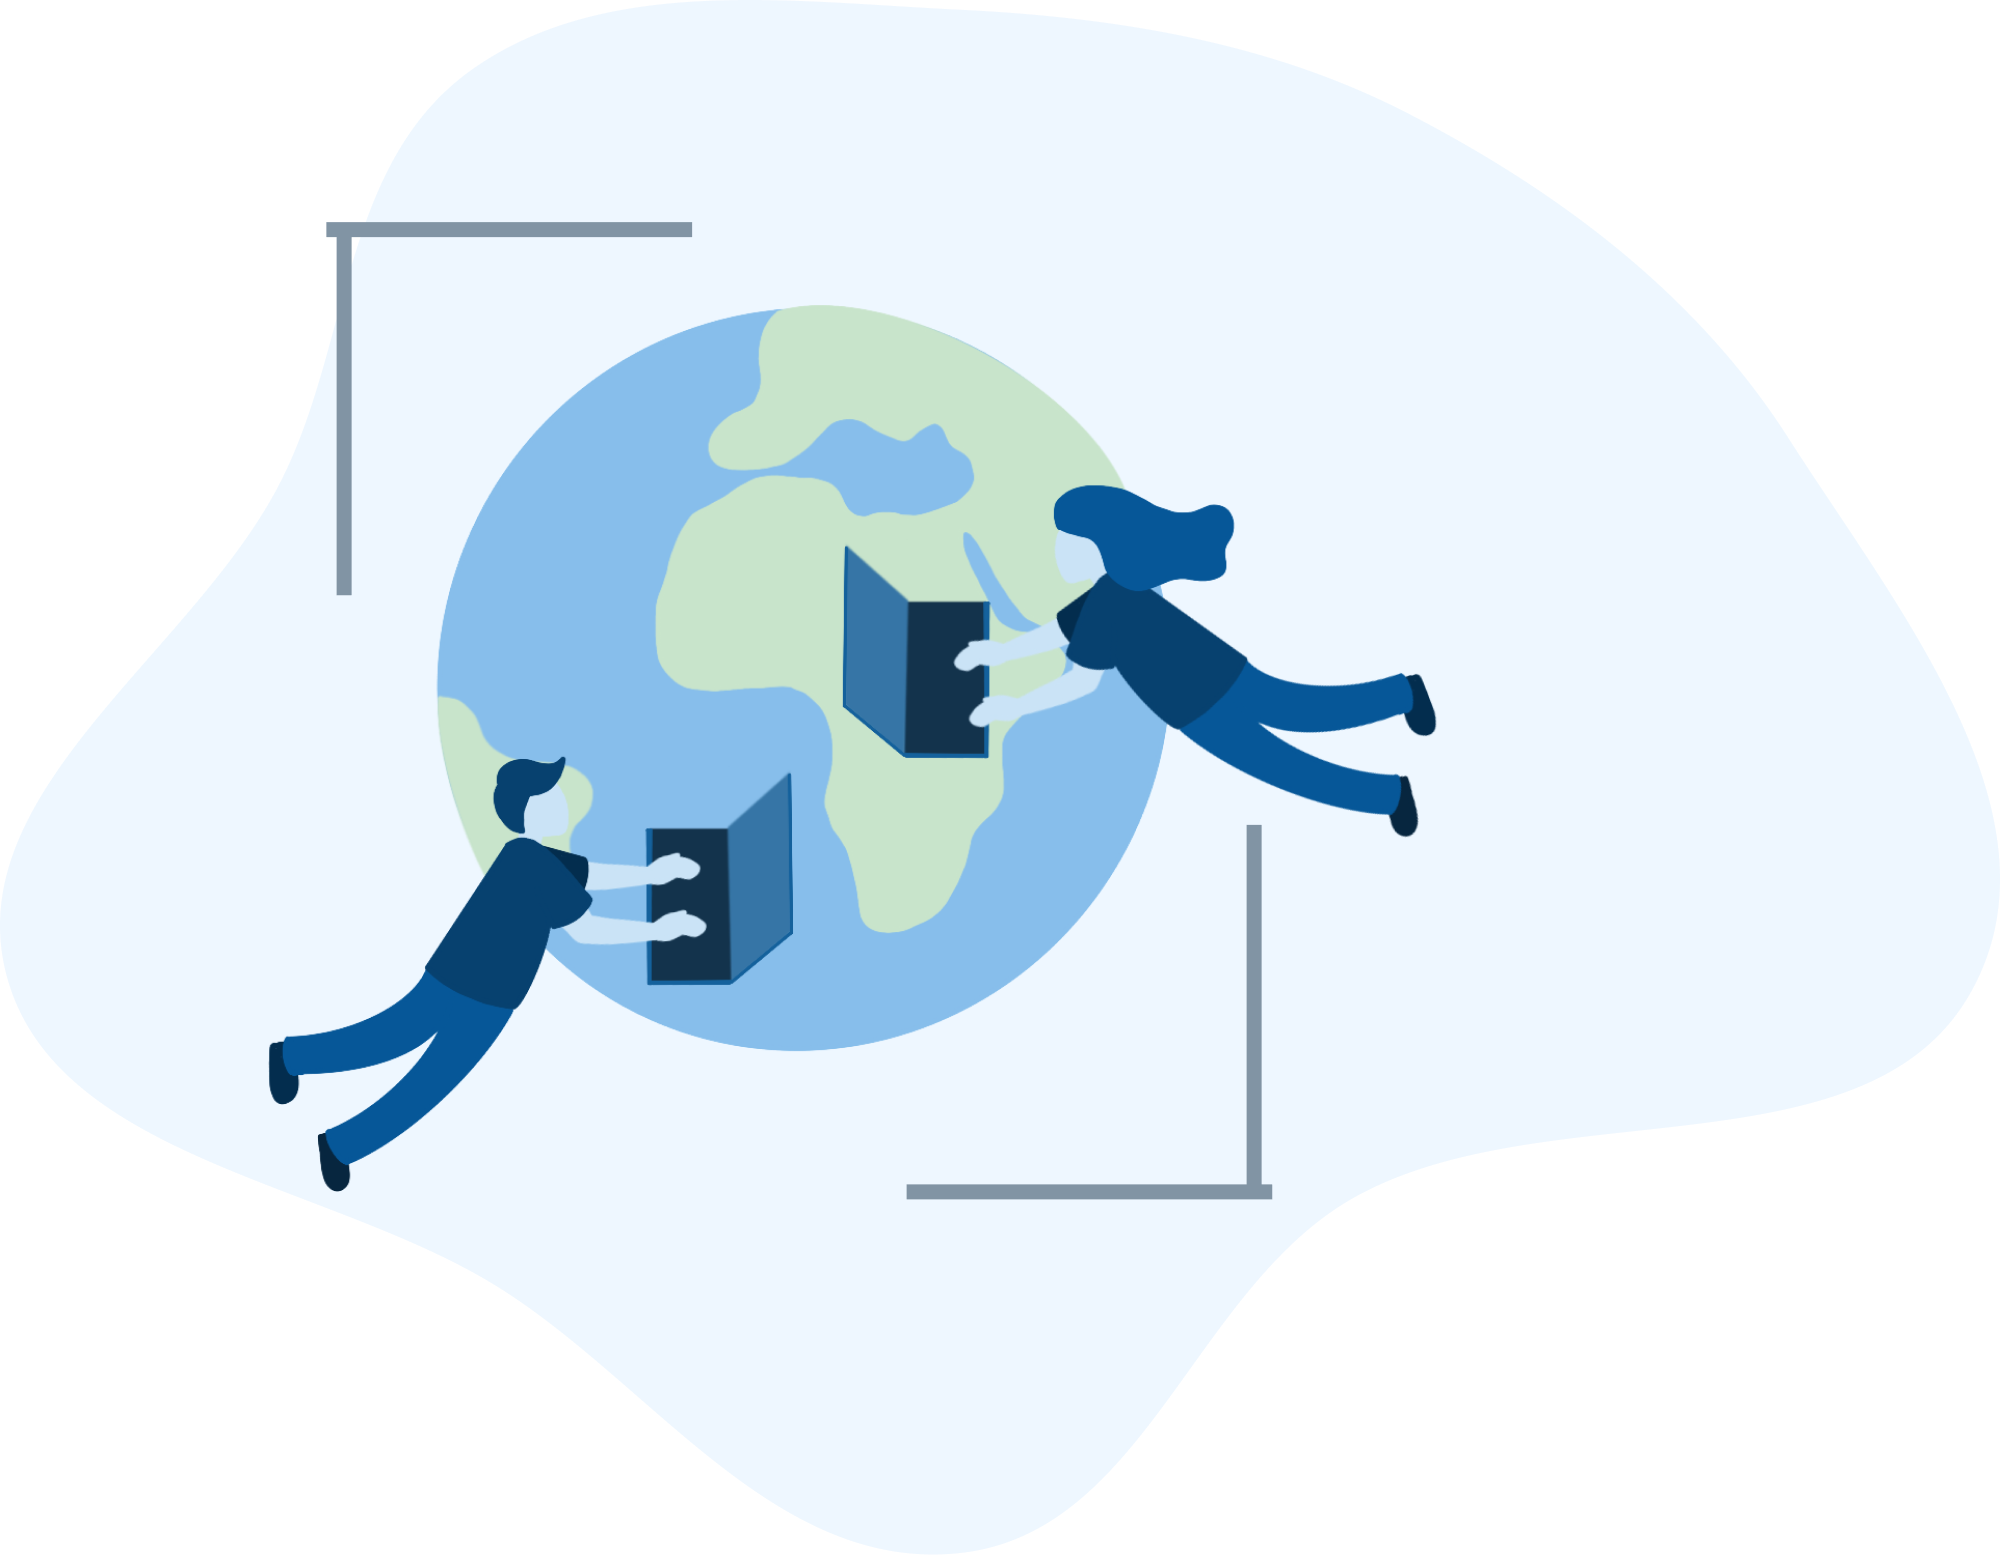
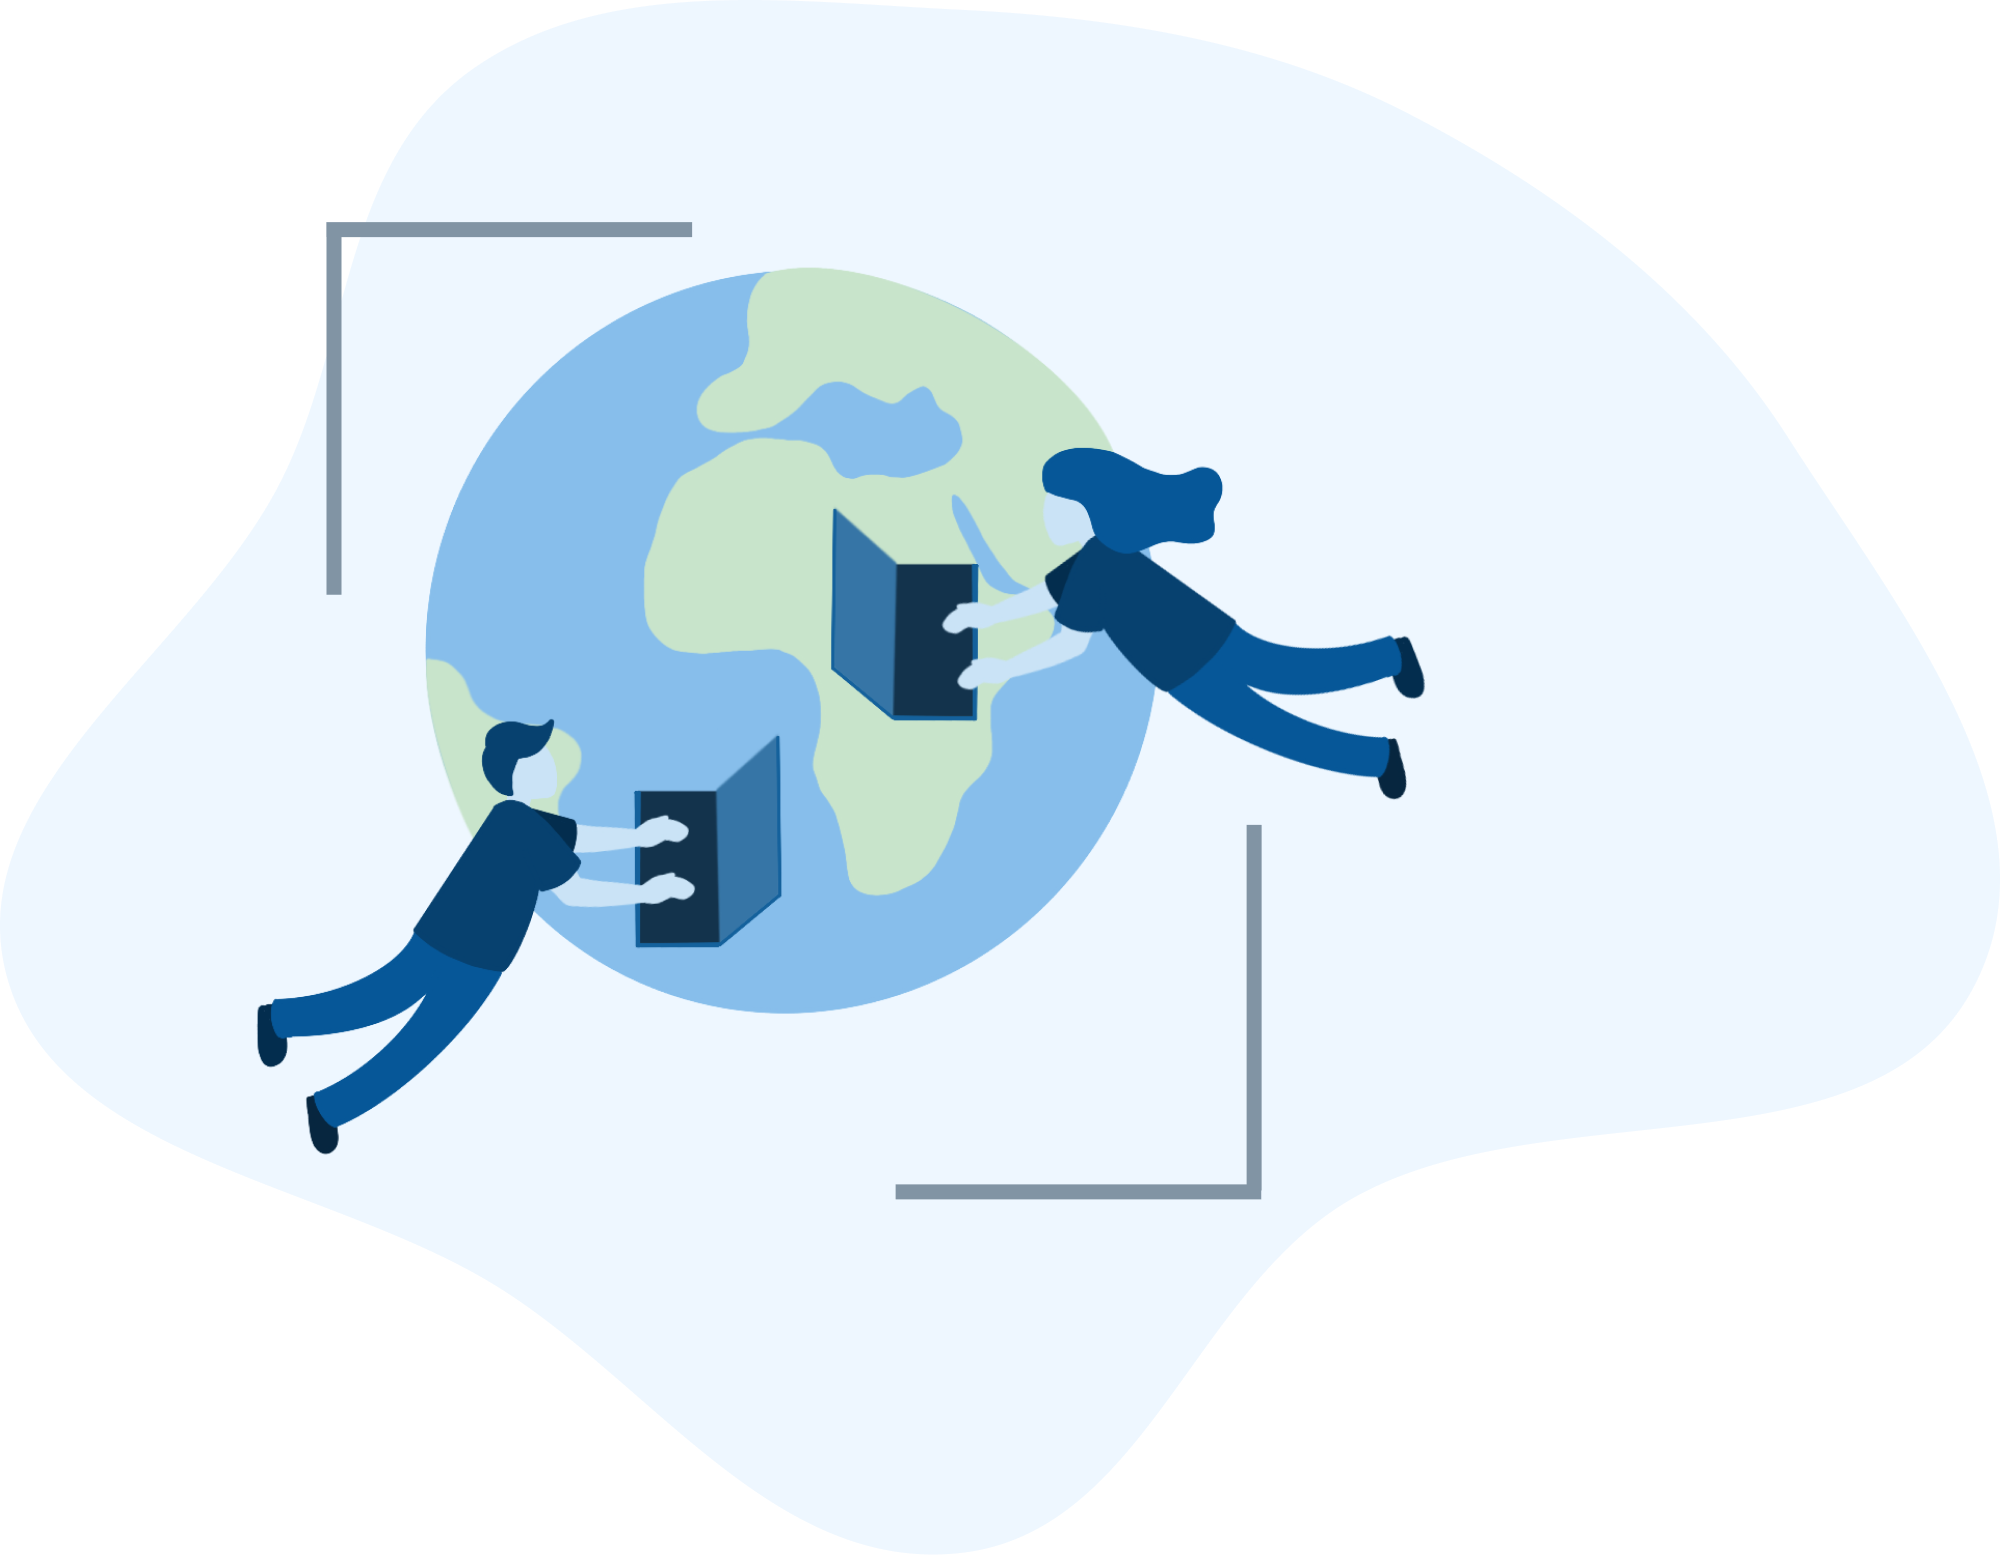
incomplete project modifications (#64)
* remove tech stack requirement for projects

* add missing icons to timeline

* tweak: fix header image

Changed region(s): [[0.124, 0.1543, 0.713, 0.7717], [0.155, 0.1543, 0.186, 0.4013]]

diff --git a/pages/projects/[id].tsx b/pages/projects/[id].tsx
@@ -35,8 +35,8 @@ const ProjectLink = (props: ProjectLinkProps) => {
       target="_blank"
       rel="noreferrer"
     >
-      {icon}
-      <h3 className="text-black self-center">{text}</h3>
+      <div>{icon}</div>
+      <h4 className="text-gray-700 self-center">{text}</h4>
     </a>
   );
 };
@@ -63,12 +63,13 @@ const Project = (props: ProjectProps) => {
           <div className="md:flex md:space-x-12">
             <p className="md:w-3/4">{project.description}</p>
             <div className="mt-4 md:w-1/4 space-y-2">
-              <ProjectLink type="github" text="Github link" link={project.links.github} />
+              {project.links.github && <ProjectLink type="github" text="Github link" link={project.links.github} />}
               {project.links.project && <ProjectLink type="project" text="Project link" link={project.links.project} />}
               <ProjectLink type="nonprofit" text="Nonprofit link" link={project.links.nonprofit} />
             </div>
           </div>
 
+          {project.technologies && (
           <article>
             <h3 className="md:mb-4">Tech stack</h3>
             <div className="grid grid-cols-2 sm:grid-cols-4 md:grid-cols-6 gap-x-8 gap-y-4">
@@ -77,6 +78,7 @@ const Project = (props: ProjectProps) => {
               ))}
             </div>
           </article>
+          )}
         </section>
 
         {project.photos.length > 0 && (

diff --git a/components/Timeline.tsx b/components/Timeline.tsx
@@ -6,6 +6,8 @@ import {
   MailIcon,
   PencilAltIcon,
   PaperClipIcon,
+  CodeIcon,
+  LightBulbIcon,
 } from '@heroicons/react/outline';
 import { EventItem, TimelineItem, TimelineItems } from '../utils/types';
 import styles from '../styles/Timeline.module.css';
@@ -30,6 +32,10 @@ function iconJSX(icon: String) {
       return <MailIcon className={`${iconClass} ${styles.mail}`} />;
     case 'pencil':
       return <PencilAltIcon className={iconClass} />;
+    case 'code':
+      return <CodeIcon className={iconClass} />;
+    case 'lightbulb':
+      return <LightBulbIcon className={iconClass} />;
     default:
       return <PaperClipIcon className={iconClass} />;
   }
